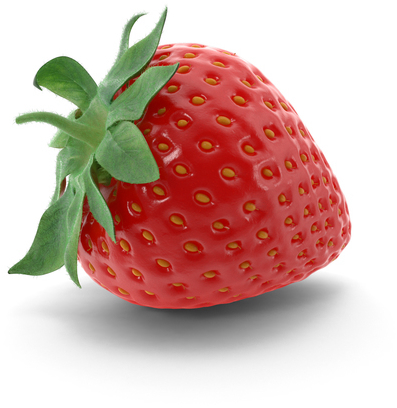
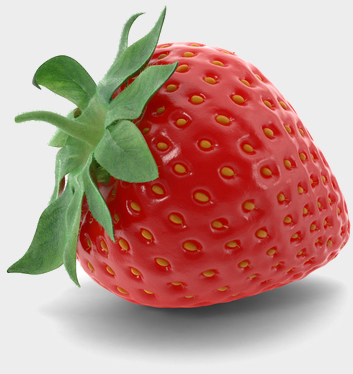
Updated strawberry BG and updated crop logic slightly

diff --git a/index.js b/index.js
@@ -45,11 +45,11 @@ const autocrop = async ({ input, output, bgColor: {r = 255, g = 255, b = 255, a 
     const pixels = await get_pixels(input); // 1d Array of our pixels e.g. [1, 2, 3, 4] => [R, G, B, A]
     const size = sizeOf(input); // The height/width of our image
 
-    let crop_x_start = 0;
-    let crop_x_end = size.width - 1;
+    let crop_x_start = 1;
+    let crop_x_end = size.width;
 
-    let crop_y_start = 0;
-    let crop_y_end = size.height - 1;
+    let crop_y_start = 1;
+    let crop_y_end = size.height;
 
     let rows = []; // Used to store all of the rows that are completely white/match the BG Color
     let columns = []; // Same as rows, but for columns that are all the same colour
@@ -67,7 +67,7 @@ const autocrop = async ({ input, output, bgColor: {r = 255, g = 255, b = 255, a 
             }
         }
 
-        if (is_row_matching_bg) rows.push(y);
+        if (is_row_matching_bg) rows.push(y + 1);
     }
 
     for (let x = 0; x < size.width; x++) {
@@ -83,7 +83,7 @@ const autocrop = async ({ input, output, bgColor: {r = 255, g = 255, b = 255, a 
             }
         }
 
-        if (is_col_matching_bg) columns.push(x);
+        if (is_col_matching_bg) columns.push(x + 1);
     }
 
     if (crop_y_start === rows[0]) {
@@ -119,7 +119,7 @@ const autocrop = async ({ input, output, bgColor: {r = 255, g = 255, b = 255, a 
             else break;
         }
     }
-    
+
     if (crop_x_end === columns[columns.length - 1]) {
         for (let i = columns.length - 1; i > 0; i--) {
             if (i === columns.length - 1) continue;

diff --git a/example.js b/example.js
@@ -5,9 +5,9 @@ const { autocrop } = require('./index.js');
         input: './images/precrop-strawberry.jpg',
         output: './images/postcrop-strawberry.jpg',
         bgColor: {
-            r: 255,
-            g: 255,
-            b: 255,
+            r: 237,
+            g: 237,
+            b: 237,
             a: 255
         }
     });
